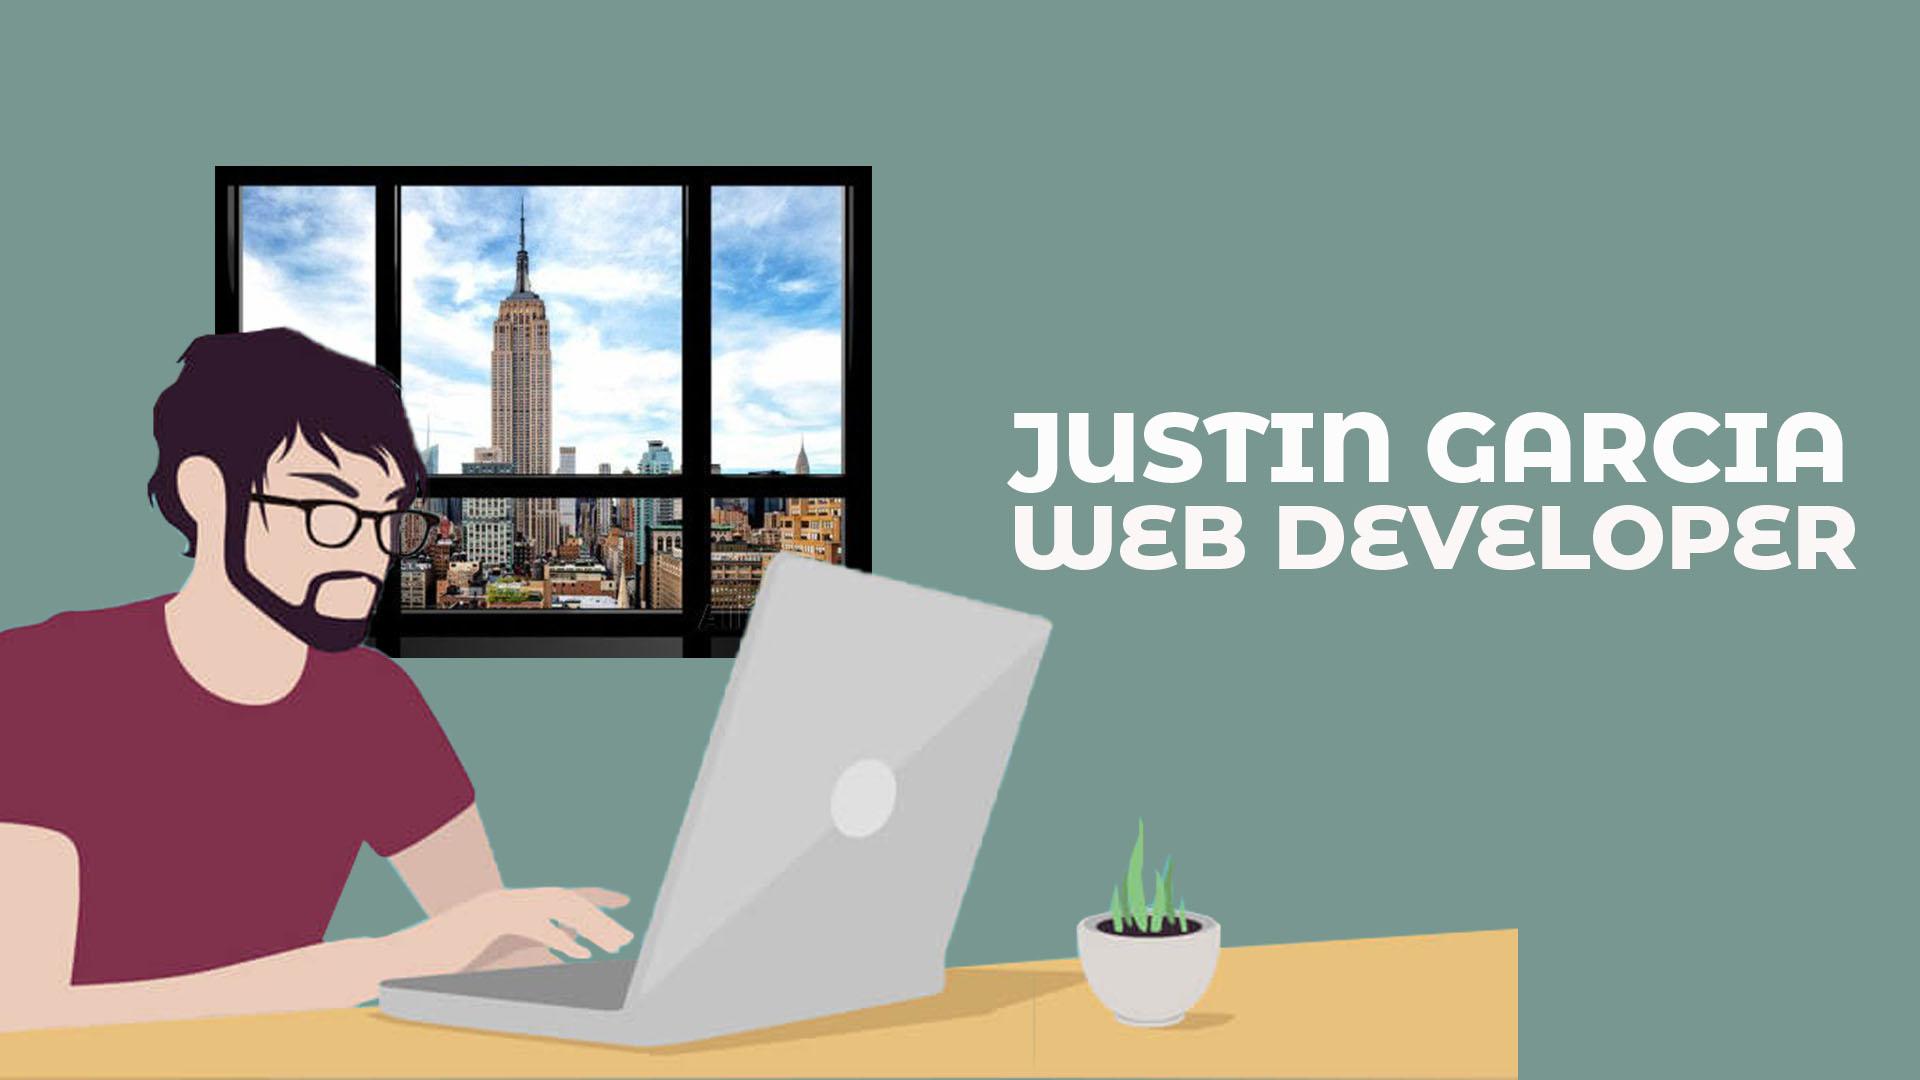
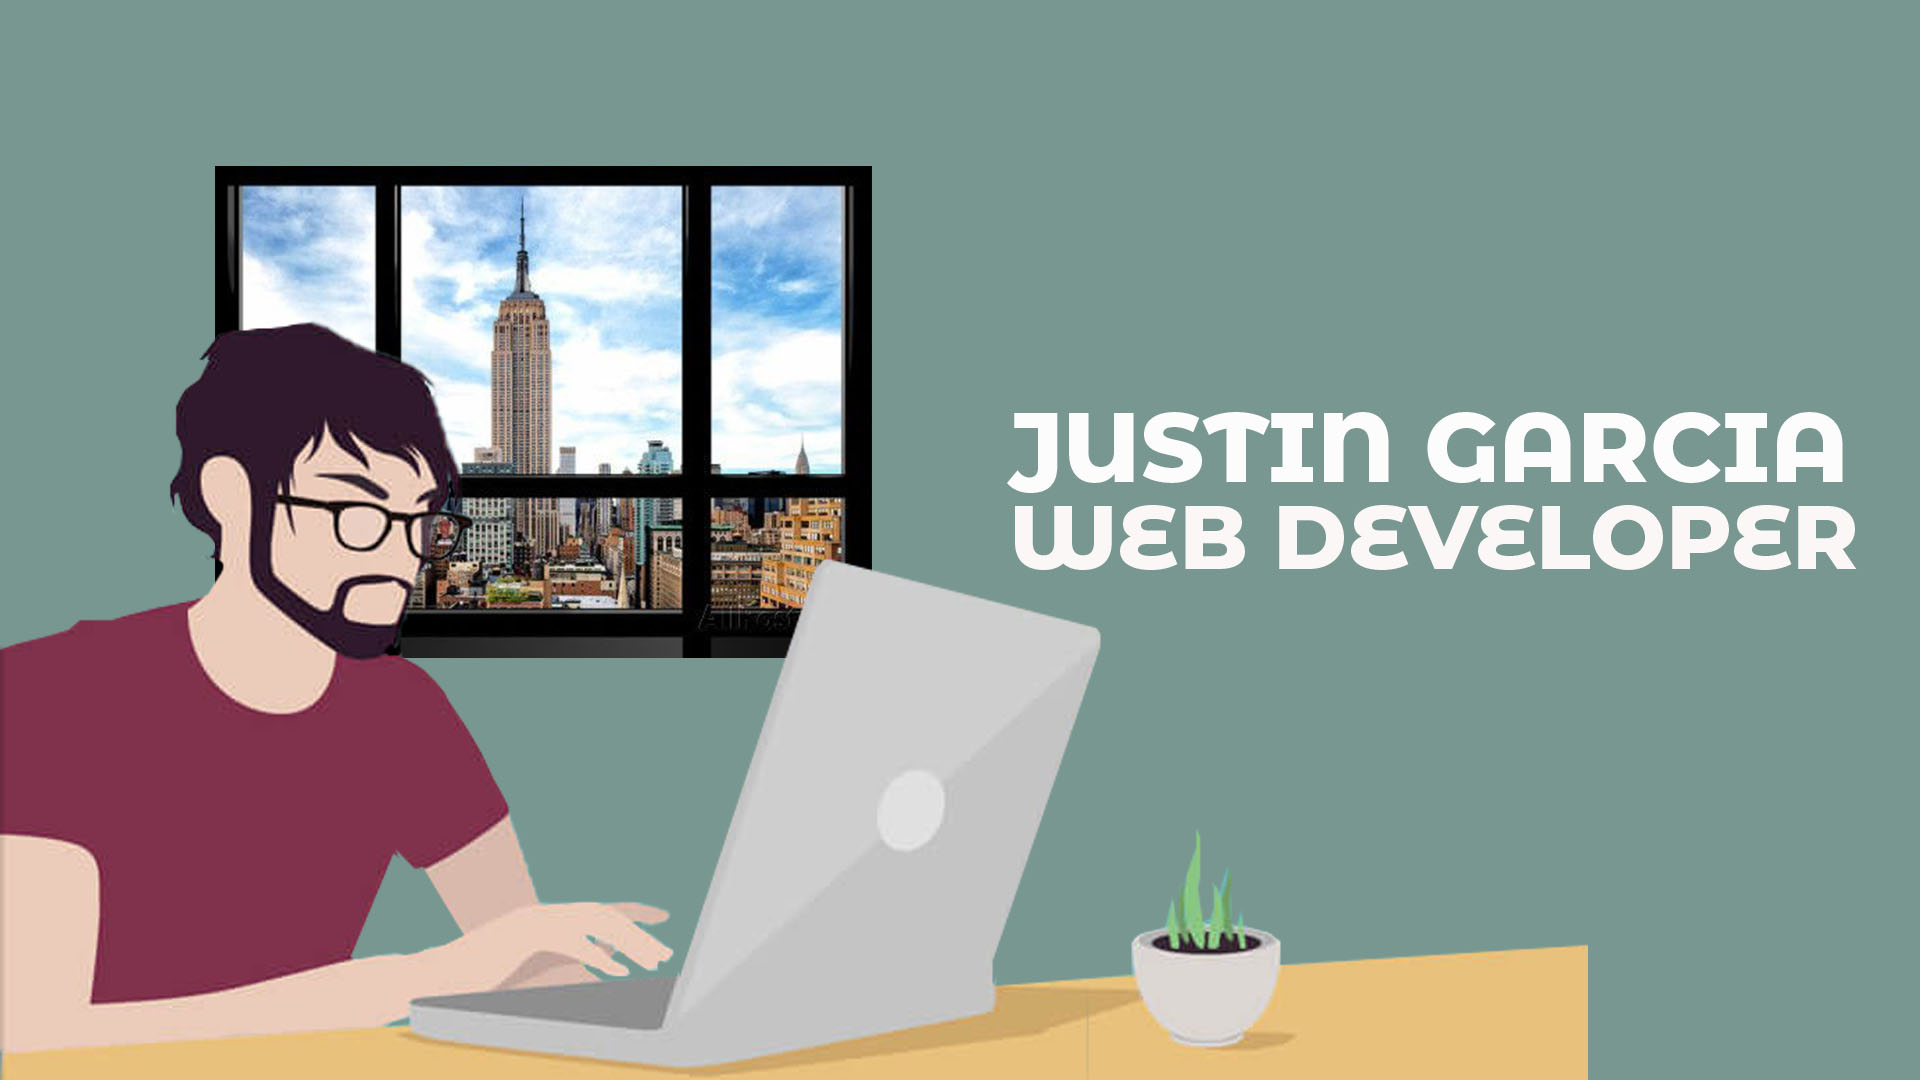
updated landing header

Changed region(s): [[0.0, 0.275, 0.8438, 1.0]]

diff --git a/app/javascript/packs/stylesheets/application.scss b/app/javascript/packs/stylesheets/application.scss
@@ -62,62 +62,6 @@
     color:#fcfcfc;
   }
 
-  @keyframes move-twink-back {
-    from {background-position:0 0;}
-    to {background-position:-10000px 5000px;}
-  }
-  @-webkit-keyframes move-twink-back {
-    from {background-position:0 0;}
-    to {background-position:-10000px 5000px;}
-  }
-  @-moz-keyframes move-twink-back {
-    from {background-position:0 0;}
-    to {background-position:-10000px 5000px;}
-  }
-  @-ms-keyframes move-twink-back {
-    from {background-position:0 0;}
-    to {background-position:-10000px 5000px;}
-  }
-
-  .stars, .twinkling, .clouds {
-    position: absolute;
-    top:0;
-    left:0;
-    right:0;
-    bottom:0;
-    width:100%;
-    height:100%;
-    display:block;
-  }
-
-  .stars {
-  background:#000 url(http://www.script-tutorials.com/demos/360/images/stars.png) repeat top center;
-  z-index:0;
-  }
-
-  .twinkling{
-  background:transparent url(http://www.script-tutorials.com/demos/360) repeat top center;
-  z-index:-1;
-  -moz-animation:move-twink-back 200s linear infinite;
-  -ms-animation:move-twink-back 200s linear infinite;
-  -o-animation:move-twink-back 200s linear infinite;
-  -webkit-animation:move-twink-back 200s linear infinite;
-  animation:move-twink-back 200s linear infinite;
-  }
-
-  .nav-logo {
-    width: 60px;
-  }
-
-  .wrapper {
-    width: 100%;
-  }
-
-  .bg {
-    height: 90vh;
-
-  }
-
   #g-recaptcha {
     display: inline-block;
   }
@@ -165,6 +109,10 @@
 
   .projects-h2 {
     padding-top: 120px;
+  }
+
+  .nav-logo {
+    height: 60px!important;
   }
 
   .card {
@@ -506,11 +454,6 @@
     padding-top: 120px;
   }
 
-  .card {
-    margin-bottom: 50px;
-    width: 440px!important;
-  }
-
   .card-text {
     text-align: left;
   }
@@ -685,7 +628,7 @@
   }
 
   .nav-logo {
-    width: 50px;
+    height: 50px;
   }
 
   .mobile-intro {

diff --git a/app/javascript/components/Intro.js b/app/javascript/components/Intro.js
@@ -1,27 +1,12 @@
 import React from "react"
 
-import IntroText from '../components/IntoText'
-import Profile from '../images/photos_bg/profile_pic.jpg'
-import jporthead from '../images/portfolio.jpg'
+import jporthead from '../images/portfolio-landing.jpg'
 
 class Intro extends React.Component {
   render () {
     return (
       <div className="wrapper" name="intro" id="intro">
         <img src={jporthead} className="landing"/>
-        {/* <div className="bg">
-          <div className="stars"></div>
-          <div className="twinkling"></div>
-          <div className="clouds"></div>
-          <div className="intro-text">
-            <IntroText />
-          </div>
-        </div>
-        <img src={Profile} className="mobile-intro"/>
-        <div className="mobile-header" style={styles.titleText}>
-          <h1>Justin Garcia</h1>
-          <h2>Web Developer</h2>
-        </div> */}
       </div>
     );
   }
@@ -29,11 +14,3 @@ class Intro extends React.Component {
 
 export default Intro
 
-const styles = {
-  titleText: {
-    textAlign: 'center',
-    marginTop: '30vh',
-    color: 'white',
-    fontFamily: "Cinzel",
-  }
-}
